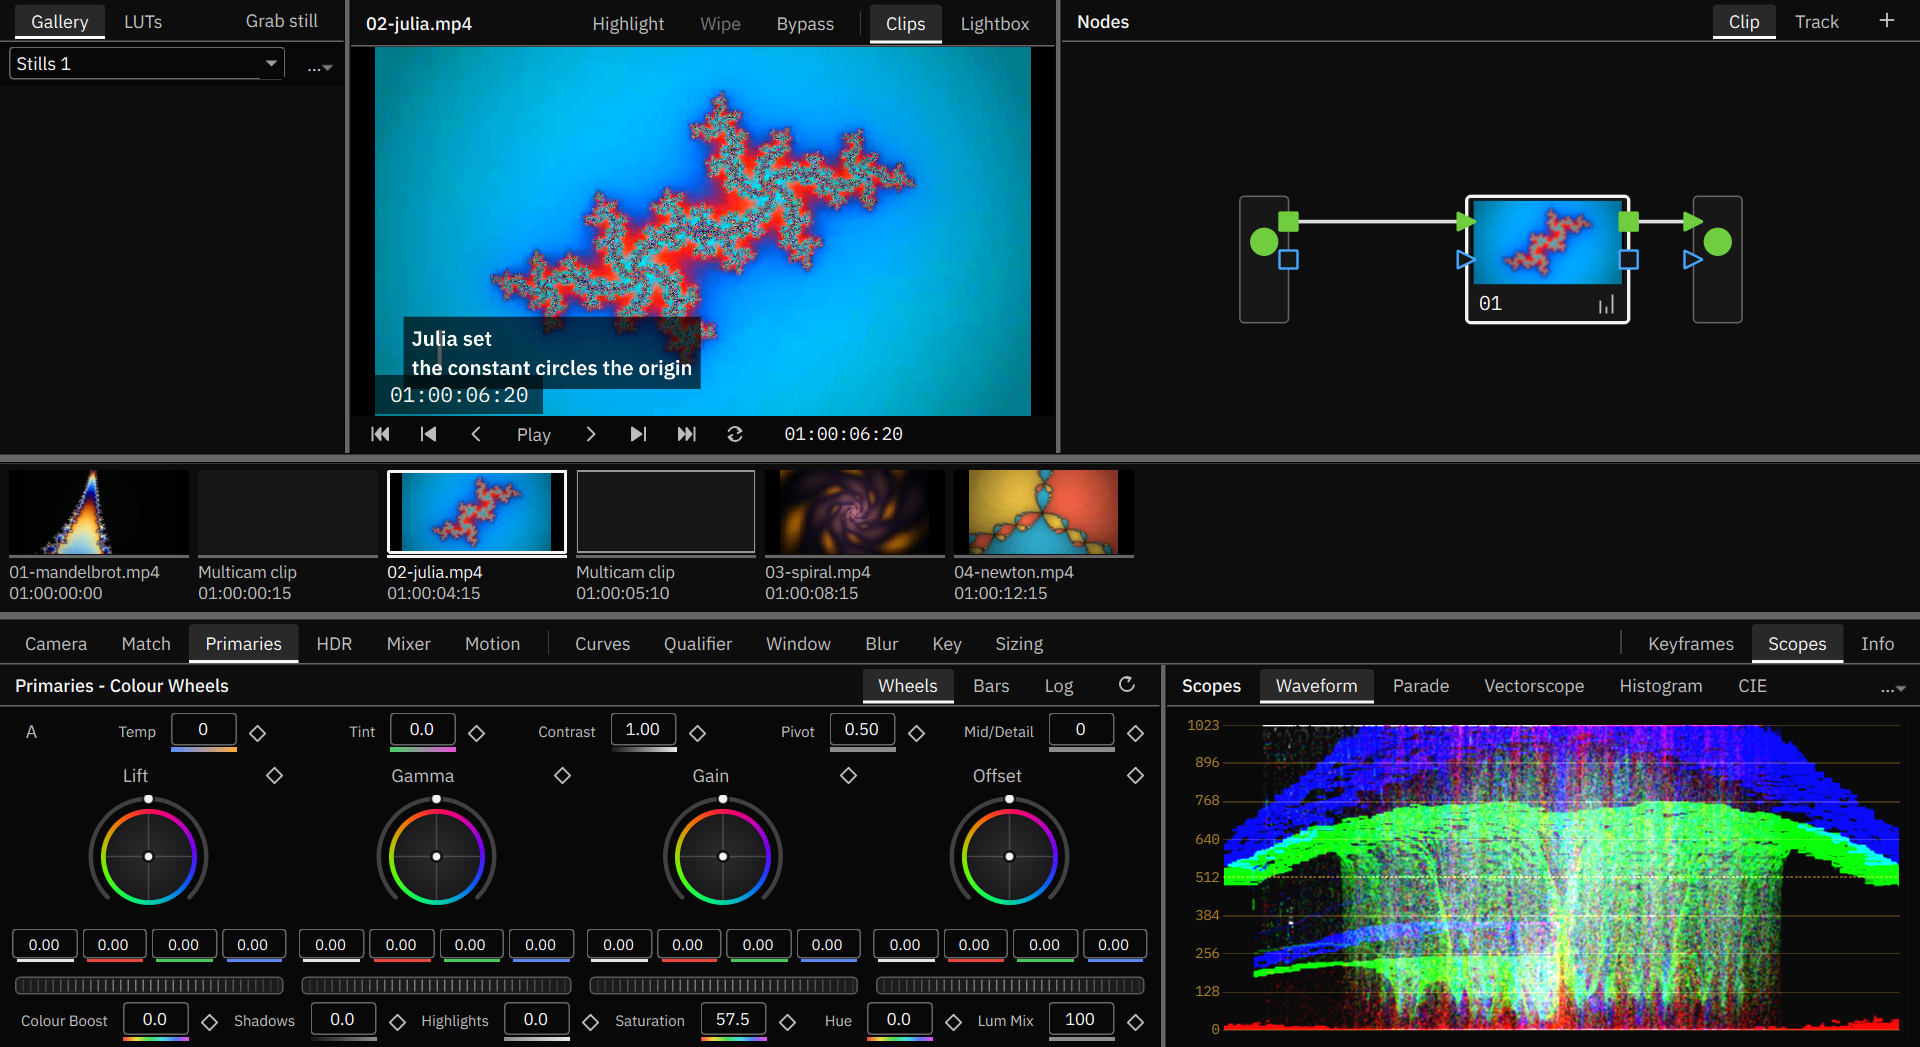
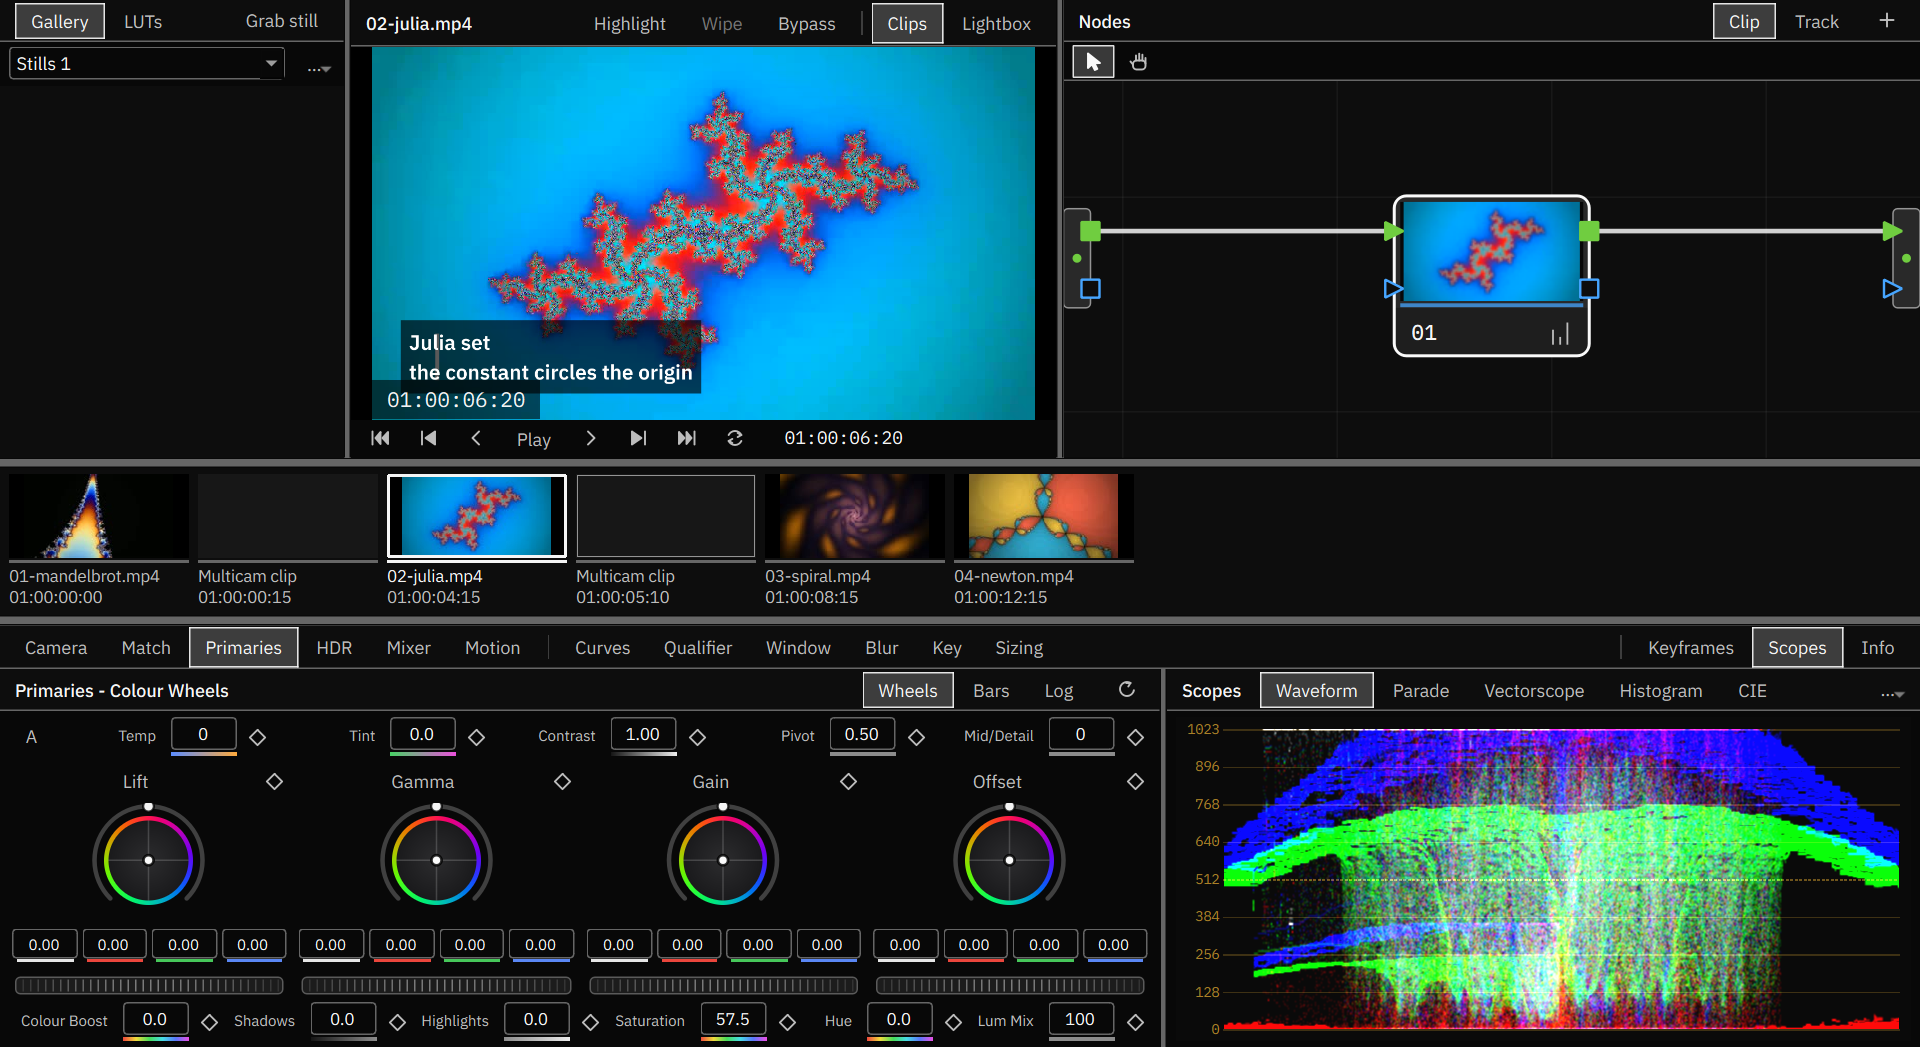
Chopper v0.5.4 (preview, unstable): readme, screenshots, badges

diff --git a/README.md b/README.md
@@ -24,6 +24,8 @@ Sound: level and loudness meters, audio tracks and a mixer with EQ, dynamics and
 
 [Chopper-Update.exe](https://github.com/tarolys/chopper-dist/releases/download/latest/Chopper-Update.exe) updates an existing install in place and only replaces the files that changed.
 
+[Chopper-Portable.exe](https://github.com/tarolys/chopper-dist/releases/download/latest/Chopper-Portable.exe) is one file that runs Chopper with nothing installed. The first start unpacks it once, which takes about a minute.
+
 Windows may show a SmartScreen warning because the programs are not code signed. Choose More info, then Run anyway.
 
 Older versions stay on the [releases page](https://github.com/tarolys/chopper-dist/releases), one release per version.
